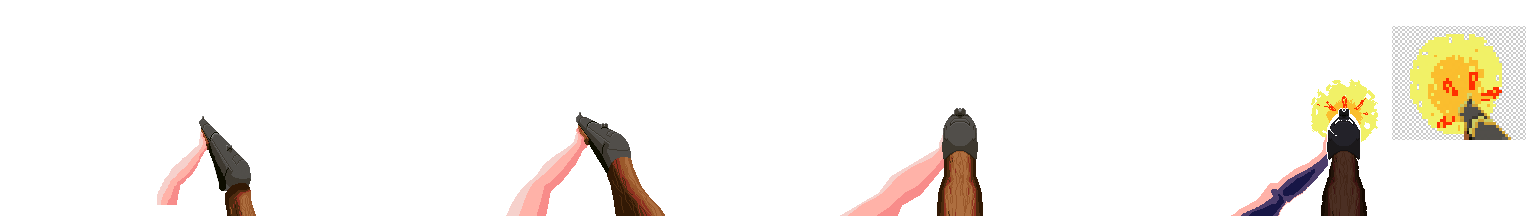
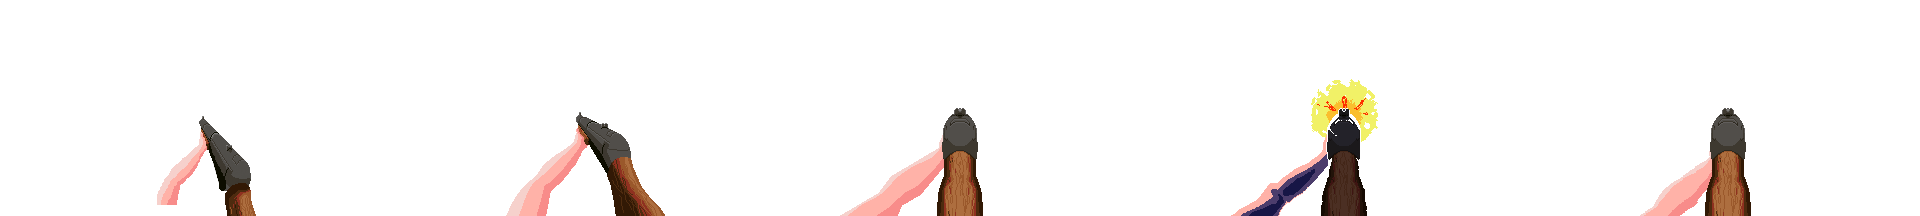
Added ADS PumpSprite

Changed region(s): [[0.25, 0.3611, 0.7188, 1.0], [0.7812, 0.1111, 1.0, 1.0], [0.0625, 0.5556, 0.1875, 1.0]]

diff --git a/Assets/Scripts/Pistol_Script.cs b/Assets/Scripts/Pistol_Script.cs
@@ -69,13 +69,9 @@ public class Pistol_Script : MonoBehaviour
         isADS = false;
         isSwitchingFireMode = false;
 
-        if (!chamberedRound)
-        {
-            ChamberRound();
-        }
-
         audioInstance.PlayPistolRackSlide();
-        isADS = false;
+
+        if (!chamberedRound) ChamberRound();
     }
 
     private void Update()
@@ -93,7 +89,6 @@ public class Pistol_Script : MonoBehaviour
 
         if (chamberedRound && isShooting && !isReloading && !isSwitchingFireMode)
         {
-            audioInstance.PlayPistolShoot();
             Shoot();
         }
 
@@ -102,9 +97,12 @@ public class Pistol_Script : MonoBehaviour
             Reload();
         }
 
-        ToggleFireMode();
+        if (Input.GetKeyDown(KeyCode.B) && !isShooting && !isReloading && !isSwitchingFireMode)
+        {
+            ToggleFireMode();
+        }
 
-        if (Input.GetButtonDown("Fire2") && !isShooting && !isReloading)
+        if (Input.GetButtonDown("Fire2") && !isShooting && !isReloading && !isSwitchingFireMode)
         {
             ChangeADSMode();
         }
@@ -113,14 +111,13 @@ public class Pistol_Script : MonoBehaviour
 
     void ToggleFireMode()
     {
-        if (Input.GetKeyDown(KeyCode.B) && !isShooting && !isReloading && !isSwitchingFireMode)
-        {
+            isSwitchingFireMode = !isSwitchingFireMode;
             animator.SetTrigger("PistolFireMode");
             Debug.Log("fire mode switched");
             audioInstance.PlayGunEmpty();
             if (rapidFire) rapidFire = false;
             else rapidFire = true;
-        }
+            isSwitchingFireMode = !isSwitchingFireMode;
     }
 
     void Shoot()
@@ -129,6 +126,8 @@ public class Pistol_Script : MonoBehaviour
         chamberIndicator.enabled = false;
 
         EjectCasing();
+
+        audioInstance.PlayPistolShoot();
 
         animator.SetTrigger("PistolShot");
         camShakeRecoil.Recoil(recoilX, recoilY, recoilZ, recoilADS);
@@ -206,23 +205,34 @@ public class Pistol_Script : MonoBehaviour
     {
         if (!isADS)
         {
-            animator.SetBool("PistolADS", true);
-            animator.SetTrigger("PistolAiming");
-            isADS = true;
-            recoilADS = adsMultiplier;
-            Invoke("ReticleToggle", .2f);
-            //Debug.Log("Aiming down Sights is + " + isADS);
+            ADSon();
         }
         else if (isADS)
         {
-            animator.SetBool("PistolADS", false);
-            animator.SetTrigger("PistolAiming");
-            isADS = false;
-            recoilADS = 1f;
-            Invoke("ReticleToggle", .05f);
-            //Debug.Log("Aiming down Sights is + " + isADS);
+            ADSoff();
         }
     }
+
+    void ADSon()
+    {
+        animator.SetBool("PistolADS", true);
+        animator.SetTrigger("PistolAiming");
+        isADS = true;
+        recoilADS = adsMultiplier;
+        Invoke("ReticleToggle", .2f);
+        Debug.Log("Aiming down Sights is + " + isADS);
+    }
+
+    void ADSoff()
+    {
+        animator.SetBool("PistolADS", false);
+        animator.SetTrigger("PistolAiming");
+        isADS = false;
+        recoilADS = 1f;
+        Invoke("ReticleToggle", .05f);
+        Debug.Log("Aiming down Sights is + " + isADS);
+    }
+
 
     void ReticleToggle()
     {
